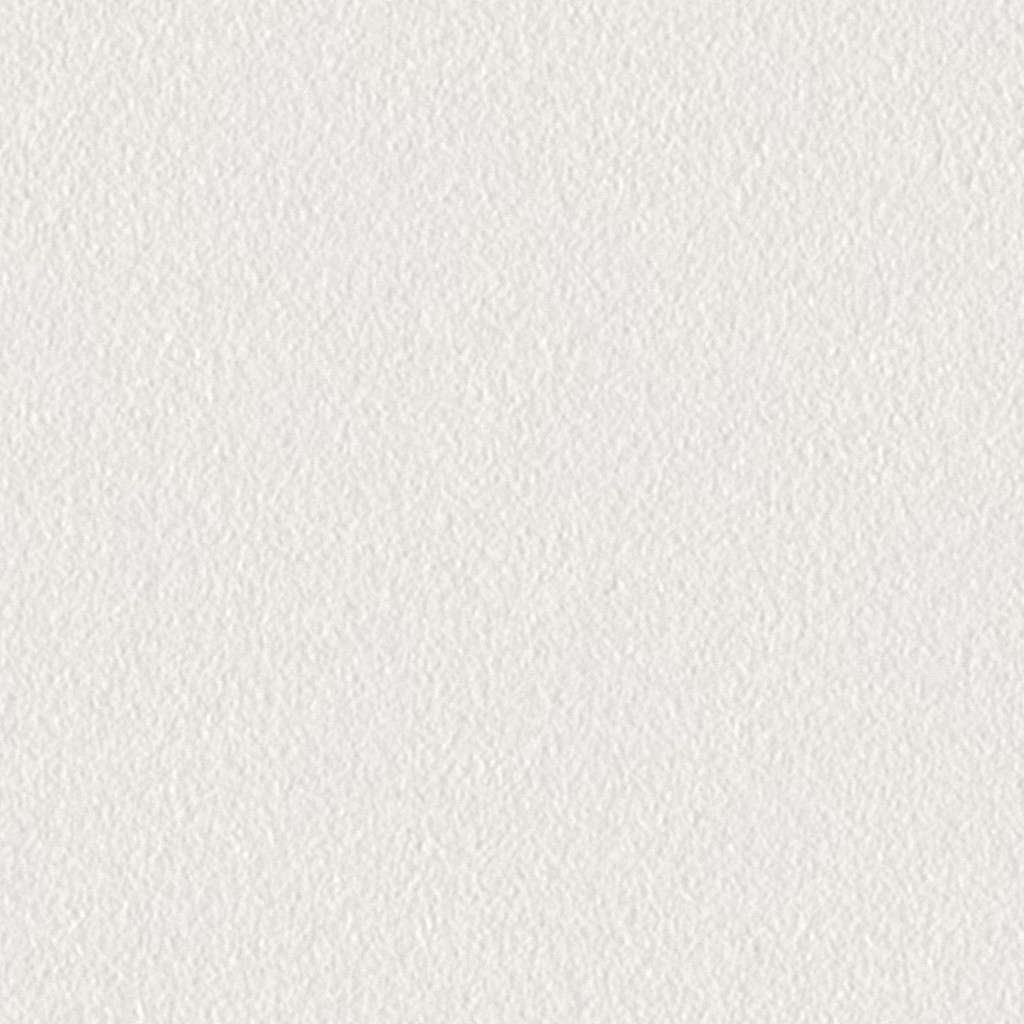
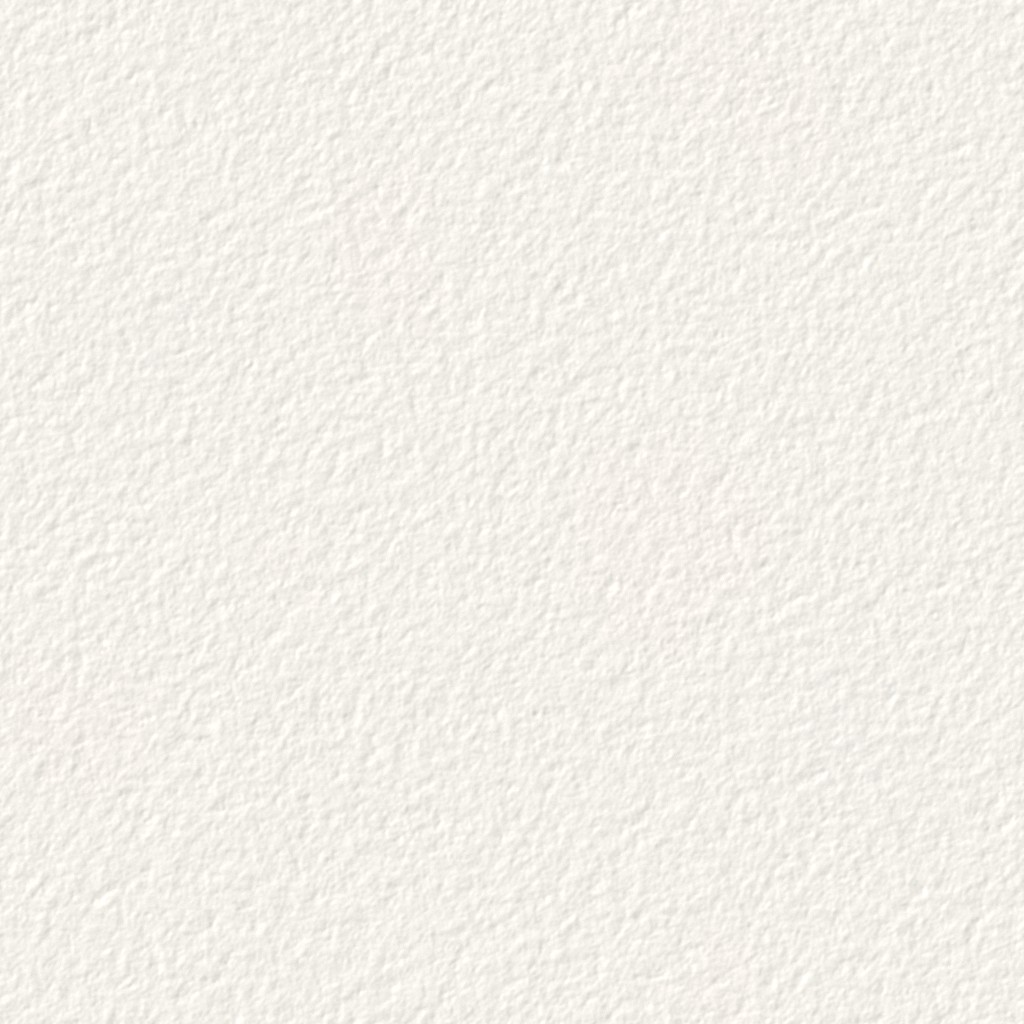
calendrier-maison : la poésie (noms des addons) s'écrit en bas, un morceau par tiroir ouvert ; papier aquarelle plus réaliste

diff --git a/html/calendrier-maison.html b/html/calendrier-maison.html
@@ -8,7 +8,7 @@
 /* Calendrier d'hiver raffiné (maquette d'Amila 27.11.2026) : le décor = son image ; les vraies pièces posées dedans.
    Fenêtres du haut = l'addon du jour ; tiroirs = cartes aquarelle, la pièce sort en petits sauts au survol (esprit Village mood). */
 html,body{margin:0;height:100%;overflow:hidden;background:#F5F3EF url(https://mood-tools.yourmood.net/calendrier/papier-aquarelle.jpg) 0 0/720px repeat}
-#cal{position:absolute;left:50%;top:50%;width:min(100vw,calc(100vh * 1505 / 1045));aspect-ratio:1505/1045;transform:translate(-50%,-50%);container-type:inline-size;font-family:Poppins,sans-serif}
+#cal{position:absolute;left:50%;top:0;width:min(100vw,calc(85vh * 1505 / 1045));aspect-ratio:1505/1045;transform:translateX(-50%);container-type:inline-size;font-family:Poppins,sans-serif}
 #cal>img.fond{position:absolute;inset:0;width:100%;height:100%;display:block;--m:linear-gradient(90deg,transparent 0,#000 2%,#000 98%,transparent 100%),linear-gradient(180deg,transparent 0,#000 6%,#000 96.2%,transparent 100%);-webkit-mask-image:var(--m);mask-image:var(--m);-webkit-mask-composite:source-in;mask-composite:intersect}
 #cal::after{content:"";position:absolute;inset:0;background:rgba(30,45,65,.38);opacity:0;transition:opacity .4s steps(4);pointer-events:none;z-index:29}
 #cal.survol::after{opacity:1}
@@ -63,12 +63,23 @@ html,body{margin:0;height:100%;overflow:hidden;background:#F5F3EF url(https://mo
 .t.ferme{cursor:pointer} .t.ferme.secoue{animation:secoue .45s steps(6)}
 @keyframes secoue{0%,100%{transform:translateX(0)}20%{transform:translateX(-5%)}40%{transform:translateX(5%)}60%{transform:translateX(-3%)}80%{transform:translateX(2%)}}
 .bulle{position:absolute;z-index:45;transform:translate(-50%,-115%);background:#fff;border-radius:2cqw;padding:.4cqw 1cqw;font:400 .85cqw Poppins,sans-serif;color:#34506a;white-space:nowrap;box-shadow:0 .3cqw .9cqw rgba(30,50,80,.2);pointer-events:none;transition:opacity .3s steps(3)}
+
+/* la poésie : chaque nom d'addon est un morceau ; un nouveau morceau s'écrit à chaque tiroir ouvert */
+#poeme{position:absolute;left:50%;bottom:0;transform:translateX(-50%);width:min(94vw,calc(85vh * 1505 / 1045 * .92));height:15vh;display:flex;align-items:center;justify-content:center;text-align:center;
+  font:italic 400 clamp(15px,2.3vh,26px)/1.45 'Cormorant Garamond',serif;color:#34506a;z-index:10}
+#poeme .vers{display:inline}
+#poeme .et{display:inline-block;width:.55em;height:.55em;margin:0 .45em;vertical-align:.12em;background:#c9a15e;clip-path:polygon(50% 0,58% 42%,100% 50%,58% 58%,50% 100%,42% 58%,0 50%,42% 42%)}
+#poeme .neuf{display:inline;color:#8a6a2e;clip-path:inset(0 100% 0 0);animation:plume 3.2s steps(28) .9s forwards}
+@keyframes plume{to{clip-path:inset(0 0 0 0)}}
+#poeme .neuf{display:inline-block}
+#poeme .attente{opacity:.6}
 @media (prefers-reduced-motion:reduce){*{animation:none!important;transition:none!important} #neige{display:none}}
 </style></head>
 <body>
 <div id="cal"><img class="fond" src="https://mood-tools.yourmood.net/calendrier/hiver-fond.jpg" alt="Le calendrier de l'Avent mood">
   <div class="compte" id="compte" hidden>Prochain tiroir dans <b id="chrono">--:--:--</b></div>
 </div>
+<p id="poeme"></p>
 <canvas id="neige" aria-hidden="true"></canvas>
 <script>
 (function(){
@@ -115,6 +126,15 @@ html,body{margin:0;height:100%;overflow:hidden;background:#F5F3EF url(https://mo
           (n === jour ? '<span class="porte" style="' + porte(R) + '">' + num(n) + '</span>' : '') + '</a>';
       else h += '<span class="t ferme" data-n="' + n + '" style="' + pos(R) + '">' + num(n) + '</span>';
     }
+    // la poésie : les morceaux déjà sortis, deux par vers ; le dernier s'écrit comme à la plume
+    var morceaux = []; for (var m = 1; m <= jour; m++) if (par[m]) morceaux.push(par[m].nom);
+    var po = document.getElementById('poeme');
+    if (!morceaux.length) po.innerHTML = '<span class="attente">Chaque nuit, un nouveau vers de notre poésie de Noël s\'écrira ici…</span>';
+    else po.innerHTML = '<span>' + morceaux.map(function(t, i){
+      var txt = i % 2 ? ' ' + t.charAt(0).toLowerCase() + t.slice(1) : t;
+      var span = '<span class="' + (i === morceaux.length - 1 && jour === morceaux.length ? 'neuf' : 'vers') + '">' + esc(txt) + '</span>';
+      return (i && i % 2 === 0 ? '<i class="et"></i>' : '') + span;
+    }).join('') + '</span>';
     cal.insertAdjacentHTML('beforeend', h);
     cal.querySelectorAll('.t.ouvert').forEach(function(t){
       t.addEventListener('mouseenter', function(){ if (!TACTILE) montre(t); });
